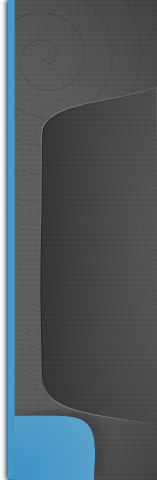
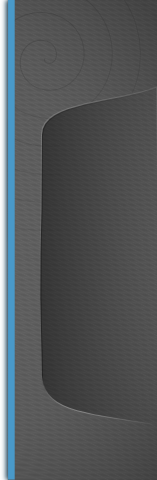
"Градусник" в дорожном режиме.   - Ярлычёк скорости слева от градусника (над картой)   - Сдвинута панель даты/проиденного пути в дорожном режиме   - Градусник появляется только в дорожном режиме

Changed region(s): [[0.0764, 0.8438, 0.6115, 1.0]]

diff --git a/qml/QtMon/main.qml b/qml/QtMon/main.qml
@@ -121,6 +121,9 @@ Rectangle {
 
             PropertyChanges { target: page2buttonHeader; anchors.rightMargin: 22 }
             PropertyChanges { target: page1buttonInfo; anchors.rightMargin: 20; opacity: 0.05 }
+
+            PropertyChanges { target: speedBox; anchors.bottomMargin: -100 }
+            PropertyChanges { target: graduateBar; opacity: 0 }
         },
         State {
             name: "page2"
@@ -140,6 +143,9 @@ Rectangle {
         NumberAnimation { targets: [page1buttonHeader, page2buttonHeader]; properties: "anchors.rightMargin"; easing.type: Easing.InOutQuad; duration: 400 }
         NumberAnimation { target: page1buttonInfo; properties: "opacity"; easing.type: Easing.InOutQuad; duration: 400 }
         NumberAnimation { target: page1buttonInfo; properties: "anchors.rightMargin"; easing.type: Easing.OutQuad; duration: 800 }
+
+        NumberAnimation { target: speedBox; properties: "anchors.bottomMargin"; easing.type: Easing.OutQuad; duration: 300 }
+        NumberAnimation { target: graduateBar; properties: "opacity"; easing.type: Easing.OutQuad; duration: 300 }
     }
 
     Rectangle {
@@ -714,8 +720,6 @@ Rectangle {
                 }
 
                 Image {
-                    x: 534
-                    y: 364
                     anchors.verticalCenter: parent.verticalCenter
                     anchors.horizontalCenter: parent.horizontalCenter
                     source: "Slices/Cross.png"
@@ -726,11 +730,12 @@ Rectangle {
 
                     anchors.bottom: parent.bottom
                     anchors.bottomMargin: -10
-                    anchors.horizontalCenter: parent.horizontalCenter
                     height: background.height
                     width: background.width
 
                     color: "#00000000"
+                    anchors.left: parent.left
+                    anchors.leftMargin: 15
 
                     Image {
                         id: background
@@ -1132,14 +1137,15 @@ Rectangle {
             Image {
                 anchors.fill: parent
                 source: "Slices/Vigilance-Sign-Active-Overlay.png"
-                opacity: 0
+                property bool isActive: false;
+                opacity: 1.0 * isActive
                 Behavior on opacity { PropertyAnimation { duration: 70 } }
 
                 Timer {
                     interval: 400
-                    running: stateView.IsVigilanceRequired || (parent.opacity != 0)
+                    running: stateView.IsVigilanceRequired || (parent.isActive)
                     repeat: true
-                    onTriggered: parent.opacity = 1 - parent.opacity
+                    onTriggered: parent.isActive = !parent.isActive
                 }
             }
 
@@ -1168,6 +1174,8 @@ Rectangle {
                 model: Math.floor(maxSpeed/5) - 1
                 Row {
                     property int sp: (index + 1) * 5
+                    property bool nice: sp % 10 == 0
+
                     anchors.left: parent.left
                     anchors.leftMargin: 5
                     height: 14;
@@ -1176,21 +1184,34 @@ Rectangle {
                     //opacity: stateView.SpeedRestriction >= sp ? 1 : 0
                     spacing: 0
 
-                    Rectangle { anchors.verticalCenter: parent.verticalCenter; height: 1; color: "#000000";
-                                width: 4 + 0.4*Math.floor(repeater.count / 6) * index; }
+                    Repeater {
+                        model: [ "#71000000", "#a8ffffff" ]
+                        Rectangle {
+                            anchors.verticalCenter: parent.verticalCenter;
+                            anchors.verticalCenterOffset: index
+                            anchors.left: parent.left
+                            anchors.leftMargin: index
+                            height: nice? 2:1;
+                            color: modelData;
+                            width: 4 + 0.4*Math.floor(repeater.count / 6) * index;
+                        }
+                    }
                     Rectangle {
                         anchors.verticalCenter: parent.verticalCenter
                         height: parent.height
-                        width: 18
+                        width: 14
                         color: "#00000000"
 
                         Repeater {
                             model: [ "#71000000", "#a8ffffff" ]
-                            Text { text: parent.parent.sp; font.family: "URW Gothic L"; font.pointSize: 10; font.bold: true
+                            Text {
+                                text: parent.parent.sp;
+                                font.family: "URW Gothic L";
+                                font.pointSize: 8;
                                 anchors.verticalCenterOffset: index-1
                                 anchors.verticalCenter: parent.verticalCenter
-                                anchors.right: parent.right
-                                anchors.rightMargin: 1-index
+                                anchors.left: parent.left
+                                anchors.leftMargin: index
                                 color: modelData
                             }
                         }
@@ -1207,6 +1228,7 @@ Rectangle {
             height: rootRect.height - speedBox.height
             color: "#fff"
             anchors.top: parent.top
+            opacity: graduateBar.opacity
         }
 
         Rectangle {
@@ -1217,6 +1239,7 @@ Rectangle {
             visible: stateView.Speed >= 0
             color: "#4999c9"
             anchors.bottom: speedBox.top
+            opacity: graduateBar.opacity
 
             Behavior on height { SmoothedAnimation { duration: 500 } }
         }
@@ -1229,24 +1252,31 @@ Rectangle {
             height: (rootRect.height - speedBox.height) - (stateView.SpeedRestriction/maxSpeed)*(rootRect.height - speedBox.height)
             color: "#c94949"
             anchors.top: parent.top
+            opacity: graduateBar.opacity
 
             Behavior on height { SmoothedAnimation { duration: 500 } }
         }
 
         Rectangle {
-            anchors.bottom: parent.bottom
             width: 63
-            height: 63
+            height: 64
             color: "#00000000"
-            anchors.left: parent.left
             id: speedBox
-            y: 417
+            anchors.right: parent.left
+            anchors.bottom: parent.bottom
+
+            Image {
+                anchors.right: parent.right
+                anchors.bottom: parent.bottom
+                source: "Slices/Speedbox-Label.png"
+            }
+
             Repeater {
                 model: [ "#ff30759e", "#d8ffffff" ]
                 Column {
                     y: index
                     anchors.right: parent.right
-                    anchors.rightMargin: 1-index
+                    anchors.rightMargin: 10-index
 
                     Text {
                         text: stateView.Speed >= 0 ? stateView.Speed.toFixed() : "--"
